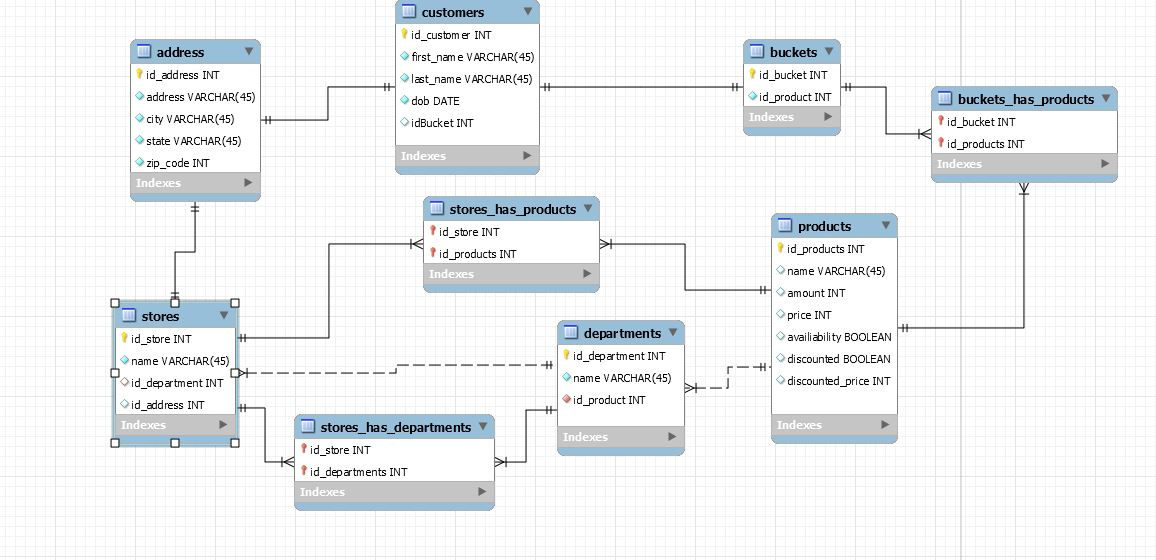
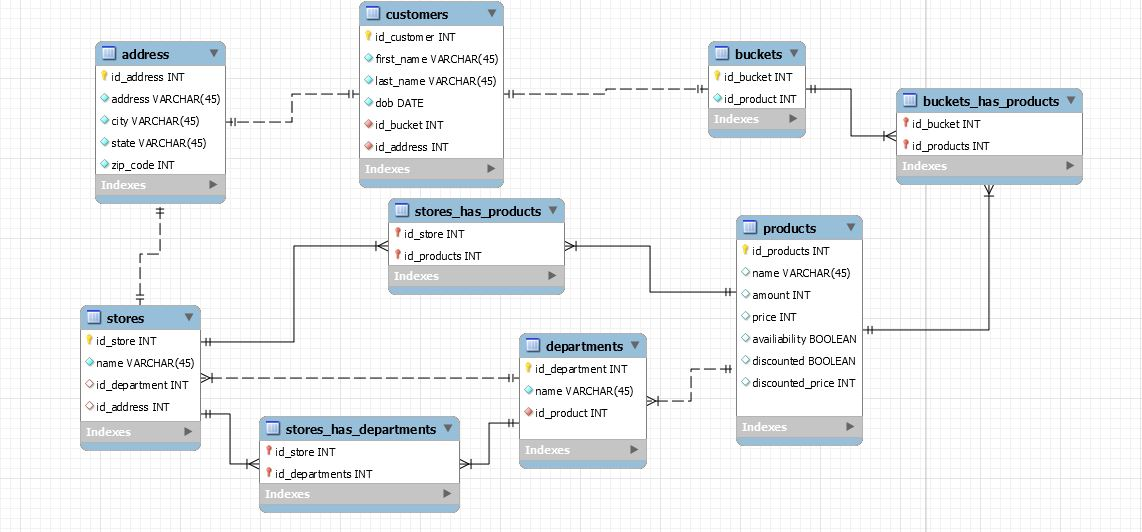
add customet orm

diff --git a/config/customer_orm.js b/config/customer_orm.js
@@ -2,14 +2,36 @@ var db = require('../models');
 
 var customerORM = {
     getCustomers: (callback) => {
-        db.Customer.findAll({}).then(function(dbCustomers) {
+        db.Customer.findAll({
+            include: [db.Address]
+        }).then(function(dbCustomers) {
             callback(dbCustomers);
-        })
+        });
     },
     addCustomer: (customerData, callback) => {
         db.Customer.create(customerData).then((newCustomer) => {
-            callback(newCustomer)
-        })
+            callback(newCustomer);
+        });
+    },
+    getCustomerAddress: (customerId, callback) => {
+        db.Customer.findOne({
+            where: {
+                id: customerId
+            },
+            include: [db.Address]
+        }).then(function(dbAddress) {
+            callback(dbAddress);
+        });
+    },
+    getCustomerBucket: (customerId, callback) => {
+        db.Bucket.findAll({
+            where: {
+                CustomerId: customerId
+            },
+            include: [db.Products]
+        }).then(function(dbAddress) {
+            callback(dbAddress);
+        });
     }
 };
 

diff --git a/models/customer.js b/models/customer.js
@@ -29,26 +29,12 @@ module.exports = function(sequelize, DataTypes) {
         password: {
             type: DataTypes.STRING,
             allowNull: false
-        },
-        createdAt: {
-            type: DataTypes.DATE,
-            defaultValue: sequelize.fn('NOW'),
-        },
-        updatedAt: {
-            type: DataTypes.DATE,
-            defaultValue: sequelize.fn('NOW'),
         }
     }, {
+        timestamps: false,
         classMethods: {
             associate: function(models) {
                 Customer.hasOne(models.Address);
-            }
-        }
-    }, {
-        timestamps: false
-    }, {
-        classMethods: {
-            associate: function(models) {
                 Customer.hasOne(models.Bucket);
             }
         }

diff --git a/models/address.js b/models/address.js
@@ -27,14 +27,13 @@ module.exports = function(sequelize, DataTypes) {
             validate: {
                 len: [5, 5]
             }
-        },
-
-
-    }, { timestamps: false }, {
-        // We're saying that we want our Author to have Posts
+        }
+    }, {
+        timestamps: false,
+        // We're saying that we want our Customer to have Address
         classMethods: {
             associate: function(models) {
-                // An Author (foreignKey) is required or a Post can't be made
+                // An Customer (foreignKey) is required or a Customer can't be made
                 Address.belongsTo(models.Customer, {
                     foreignKey: {
                         allowNull: false

diff --git a/server.js b/server.js
@@ -23,14 +23,14 @@ app.use(bodyParser.json({ type: "application/vnd.api+json" }));
 app.use(express.static("./public"));
 
 // Routes =============================================================
-customerORM.getCustomers(function(data) {
+customerORM.getCustomerAddress(1, function(data) {
     console.log(data);
 });
 
 //====================================================================
 
 // Syncing our sequelize models and then starting our express app
-db.sequelize.sync({ force: true }).then(function() {
+db.sequelize.sync({ force: false }).then(function() {
     app.listen(PORT, function() {
         console.log("App listening on PORT " + PORT);
     });
